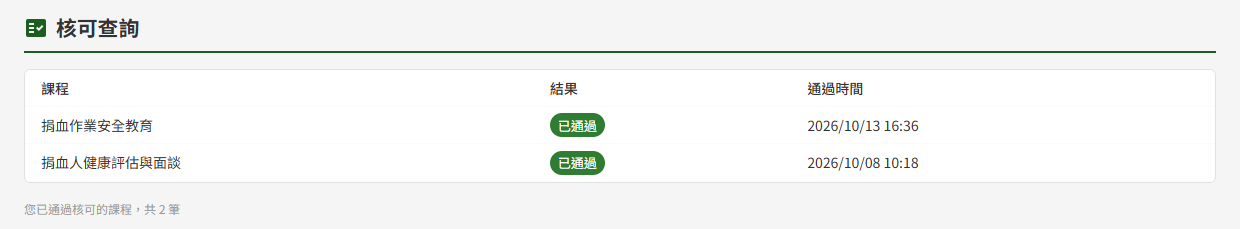
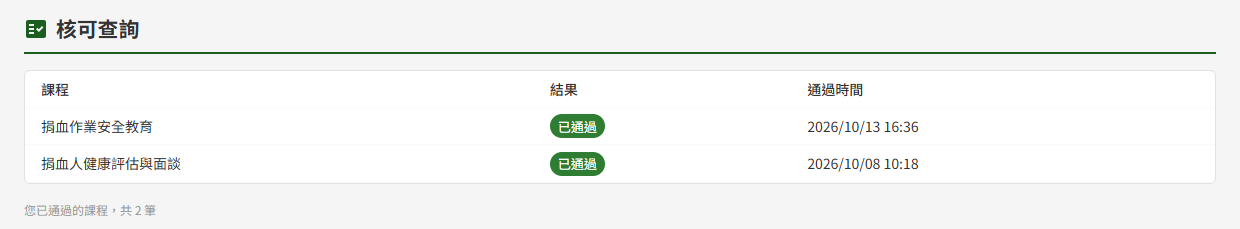
docs(et): ET 手冊依 10/05 後合併的程式改動修正，重拍 et04-01／03、et05-17／23／24
- ET06／ET07：鎖定提示改為點名擋路項目
- ET07：離開作答確認視窗原文、殘留作答的兩則提示、有殘留作答時「開始作答」仍可按；最高分與及格判定改述為百分制
- ET02：平均成績以百分制換算；查無資料或匯出中匯出鈕停用；「重新整理」改為「離開本作業後再進入」
- ET03：加入尚未開放課程的訊息原文
- ET04：課程下拉說明「不選則列出全部課程」
- ET05：已關閉課程受訓對象可自由增刪；引用文件改版／廢止排程通知；問卷檢核限啟用中者；「重新整理」寫法移除
- 測試項目同步並重產 ET 測試報告

et05-01 待另行處理；再開課帶入受訓對象待 #678 合併後再寫。

diff --git a/docs/manuals/_tests/ET-教育訓練文件管理模組.md b/docs/manuals/_tests/ET-教育訓練文件管理模組.md
@@ -67,10 +67,11 @@
 | 2 | 選擇課程丙（已關閉），應顯示唯讀提示；三區塊照常顯示，「移除」「重置重考次數」皆呈灰色，「匯出 CSV」仍可匯出。 |
 | 3 | 選擇課程甲，學員 E 應為「未開始」、進度 0%、平均成績「—」；學員 F 平均成績應顯示「0」而非「—」。 |
 | 4 | 學員 G 只作答過「測驗一」（兩次），其平均成績應等於「測驗一」兩次中的較高分，未作答的「測驗二」不列入計算。 |
-| 5 | 學員於 ET06 完成課程甲的一個教材項目後，回本頁重新整理，該學員的學習進度應隨即增加。 |
+| 5 | 學員於 ET06 完成課程甲的一個教材項目後，離開本作業後再進入，該學員的學習進度應隨即增加。 |
 | 6 | 於 ET05 對課程甲新增一份教材並儲存後回本頁，原已完課學員應顯示「進行中」，學習進度之分母隨之增加。 |
 | 7 | 按「已加入學員」區塊的「匯出 CSV」，應顯示「CSV 已匯出」並下載檔案；檔案應含全班學員（不受畫面分頁限制），最後一欄為核可狀態且文字與畫面相同。 |
 | 8 | 對課程乙按「匯出 CSV」，檔案的核可狀態欄應全部為「—」。 |
+| 8-1 | 選一門尚無學員的課程，「已加入學員」的「匯出 CSV」應為灰色無法按；問卷尚無人填答時，問卷結果的「匯出 CSV」亦應為灰色。按其中一顆匯出時，只有該顆暫時呈灰色，另一顆照常可按。 |
 | 9 | 完成第 7 項後，以管理者至 DP05 操作記錄查詢，應查得教師甲該次匯出的紀錄與筆數。 |
 | 10 | 對學員 I 按「移除」，確認視窗應顯示「確定移除 …？學習歷史完整保留。」；按「確定」後顯示「已移除學員」，學員 I 自三區塊消失，問卷的未填人數同步減少。 |
 | 11 | 承上，以學員 I 登入，「我的課程」應不再顯示課程甲；於「加入新課程」輸入課程甲的邀請碼應被擋下並提示已被移除。 |
@@ -80,7 +81,7 @@
 | 15 | 展開學員 G 的「測驗一」，兩次作答應各列一行，點選第 1 次（非最近一次）應可開啟該次的逐題明細。 |
 | 16 | 於逐題明細中，學員選錯的選項應以紅色標示、漏選的正確答案應註明「（正確答案，未選）」，各題顯示得分與配分。 |
 | 17 | 記下某次作答的逐題明細後，於 ET05 修改該題的題幹或正確答案並儲存，再開啟同一次作答的明細，內容與分數應維持作答當時的樣子。 |
-| 18 | 學員開始作答但尚未交卷時，該次作答應不出現在作答明細的歷次清單中，「已用 X / Y 次」亦不增加；交卷後重新整理即出現。 |
+| 18 | 學員開始作答但尚未交卷時，該次作答應不出現在作答明細的歷次清單中，「已用 X / Y 次」亦不增加；交卷後離開本作業再進入即出現。 |
 | 19 | 學員 H「測驗一」的「重置重考次數」應呈灰色，滑鼠移上應顯示尚有幾次可作答；學員 K（已及格）的該按鈕亦呈灰色。 |
 | 20 | 對學員 G 的「測驗一」按「重置重考次數」並確定，應顯示「已重置重考次數」，已用次數變為 0，原有兩次作答紀錄仍列出且可點開。 |
 | 21 | 承上，以學員 G 登入應可再作答「測驗一」共 2 次；其他測驗的已用次數不受影響。 |
@@ -139,7 +140,7 @@
 | 12 | 以學員乙按「加入新課程」輸入課程庚的邀請碼按「查詢」，應顯示課程名稱、教師與章節數；此時關閉視窗，課程庚不應出現在清單上。 |
 | 13 | 承上再次查詢後按「確認加入」，應顯示「已加入課程」並進入課程庚的 ET06；回到本頁，課程庚應列於清單並計入「未開始」。 |
 | 14 | 於「邀請碼」欄貼上夾帶空白或連字號的邀請碼，欄位應只保留數字且至多 8 碼；未滿 8 碼時「查詢」不可按。 |
-| 15 | 以學員乙輸入課程辛的邀請碼查詢，應提示開放時點；按「確認加入」後應留在本頁，課程辛的卡片列於清單並標「尚未開放」。 |
+| 15 | 以學員乙輸入課程辛的邀請碼查詢，應提示開放時點；按「確認加入」後應顯示「已加入，課程開放後即可開始學習」並留在本頁，課程辛的卡片列於清單並標「尚未開放」。 |
 | 16 | 學員乙再次輸入已加入之課程庚的邀請碼按「查詢」，應直接進入課程庚的 ET06，且「已加入課程」數不增加（未擋下會重複加入、統計多算）。 |
 | 17 | 學員乙再次輸入已加入之課程辛的邀請碼按「查詢」，應顯示「您已加入「課程辛」，課程開放後即可開始學習」並留在本頁，統計不增加。 |
 | 18 | 以學員甲開啟課程庚的邀請連結並登入，應進入本頁並自動開啟「加入新課程」視窗、填好邀請碼，且在按「確認加入」前不應已加入。 |
@@ -224,22 +225,25 @@
 | 12 | 將已發布課程的訖止時間清空後儲存，系統應擋下並提示改用關閉課程（未擋下該課程將永不到期關閉）。 |
 | 13 | 將一門已發布課程的訖止時間改為已過去的時點，學員應即無法再進入學習；待每日排程執行後（或請 IT 手動觸發），課程狀態應自動轉為「已關閉」。 |
 | 14 | 已發布課程的既有受訓對象應鎖定（兩欄停用、無刪除鈕），只能新增新的組別；新增時選用已被管理者停用的單位應擋下。 |
+| 14-1 | 已關閉課程的既有受訓對象應可修改與刪除（兩欄可選、有刪除鈕），儲存後保留修改結果。 |
 | 15 | 已發布課程新增一組受訓對象並儲存，該組相符且尚未加入的學員應被補加入並各收到一封通知信，已在課程中者不重複收信。 |
 | 16 | 「本課程需線下核可」於草稿、已發布、已關閉三種狀態皆應可調整，且調整後 ET02 的完課率不受影響。 |
 | 17 | 於草稿課程按「刪除草稿」並「確認刪除」，應顯示「草稿已刪除」並回到課程列表，該課程不再出現。 |
 | 18 | 按「新增章節」填名稱後按「儲存並繼續新增」，視窗應保留並可接著填下一個章節。 |
 | 19 | 新增課程尚未儲存時新增兩個章節後直接離開，課程與章節皆不應保留；改為按「儲存草稿」則兩個章節應一併存入。 |
-| 20 | 於章節列上修改章節名稱後將游標移出欄位，名稱應自動儲存，重新整理後仍為新名稱。 |
-| 21 | 拖曳章節左側手把調整順序後重新整理，調整後的順序應保留。 |
+| 20 | 於章節列上修改章節名稱後將游標移出欄位，名稱應自動儲存，離開本頁後再進入仍為新名稱。 |
+| 21 | 拖曳章節左側手把調整順序後離開本頁再進入，調整後的順序應保留。 |
 | 22 | 刪除一個已有學員學習紀錄的章節並確認，該章節的學習紀錄與測驗成績應一併移除、不再計入完課率，後續章節順序自動往前遞補。 |
-| 23 | 於新增課程畫面（課程尚未儲存）按「新增項目 → 教材」，填名稱按「建立」，應顯示「已自動儲存草稿」、轉入該課程編輯頁並開啟教材視窗；重新整理後該課程仍在。 |
+| 23 | 於新增課程畫面（課程尚未儲存）按「新增項目 → 教材」，填名稱按「建立」，應顯示「已自動儲存草稿」、轉入該課程編輯頁並開啟教材視窗；離開本頁後，該課程仍列於「我建立的」。 |
 | 24 | 於章節內按「新增項目 → 教材」，於名稱視窗填名稱按「建立」，教材視窗的「項目標題」應已帶入該名稱；填說明文字後按「儲存」，該章節下應出現此教材。 |
 | 25 | 新建立的教材在第一次按「儲存」前就按「取消」，該教材不應留在章節中。 |
 | 26 | 於教材選檔上傳一支影片後直接按「取消」關閉視窗，重新開啟該教材，影片應仍在（影片為選檔即上傳）。 |
 | 27 | 教材上傳區應顯示支援的影片格式與單檔大小上限；對已有影片的教材再上傳一支同檔名的影片，應擋下並提示先移除原有影片或改用其他檔名。 |
 | 28 | 於教材引用一份「訓練教材」分類的已發布文件並儲存，學員於該章節應可開啟此文件。 |
 | 29 | 將教材已引用的文件於文件管理端發布新版本，學員下次開啟該章節應取得新版內容，教師端不需回頭更新引用。 |
+| 29-1 | 承上，每日排程執行後（或請 IT 手動觸發），教師甲應收到該文件已更新版本的通知信，信中列出受影響的課程；剛加入引用、文件尚未改版時不應收到信。 |
 | 30 | 將已被引用的文件於文件管理端廢止，回到該教材應顯示「此文件已廢止」，且該課程按「儲存並發布」會被擋下。 |
+| 30-1 | 承上，每日排程執行後，教師甲應收到該文件已廢止、請移除引用的通知信。 |
 | 31 | 移除已廢止文件的引用並儲存後再按「儲存並發布」，該項檢核應通過。 |
 | 32 | 於章節內按「新增項目 → 測驗」並建立，於「測驗設定」填及格分數與重考次數上限後按「儲存」，該章節下應出現此測驗。 |
 | 33 | 「作答時間限制」留空儲存，學員作答該測驗時應不限時；改填入數字後，學員端應為該分鐘數的限時作答。 |
@@ -264,7 +268,7 @@
 | 52 | 某份測驗各題配分總和不等於 100 時按「儲存並發布」，視窗應列出該測驗配分不符，關閉後該測驗以紅框標示。 |
 | 53 | 草稿課程已建立問卷但問卷沒有任何題目時按「儲存並發布」，應一併擋下；將該問卷刪除後應即可發布。 |
 | 54 | 全部檢核通過後按「確認發布」，課程狀態應轉為「已發布」，並顯示依受訓對象帶入的學員人數與一組 8 碼邀請碼，該批學員各收到一封通知信；課程建立者本人不應被加入。 |
-| 55 | 發布後重新整理編輯頁，上方顯示的邀請碼應為同一組，且畫面不提供重新產生。 |
+| 55 | 發布後離開編輯頁再進入，上方顯示的邀請碼應為同一組，且畫面不提供重新產生。 |
 | 56 | 發布一門受訓對象沒有任何相符學員的課程，應顯示課程已發布但無學員符合受訓對象的警告，並提示可改用邀請碼。 |
 | 57 | 已發布課程新增一個章節並儲存，所有已加入的學員應收到通知信。 |
 | 58 | 已發布課程新增一份教材並儲存，已完課學員的完課狀態應回退為「進行中」，其已填寫的課後問卷不需重填。 |
@@ -286,6 +290,7 @@
 | 74 | 再開課的新起始時間填在過去的日期應可送出；訖止時間早於起始時間時應擋下並提示。 |
 | 75 | 再開課完成後畫面上的起訖時間應立即顯示為剛剛填入的值，不需離開頁面再進來。 |
 | 76 | 於關閉期間移除某項必要內容（如刪光教材）後按「確認再開課」，應跳出「再開課」視窗列出缺漏，關閉後缺漏處以紅框標示、畫面仍停在再開課模式；補齊後再按一次即可完成。 |
+| 76-1 | 關閉期間將課後問卷的題目刪光並停用該問卷，按「確認再開課」不應因問卷被擋下。 |
 | 77 | 再開課完成後課程應回到「已發布」，學員的學習進度與成績接續保留、原邀請碼恢復有效。 |
 | 78 | 於兩個裝置同時開啟同一門課程的編輯頁，其中一邊儲存後另一邊再儲存，應擋下並提示內容已被其他裝置變更，且該次編輯不覆蓋先前的儲存。 |
 
@@ -310,7 +315,7 @@
 | 項次 | 測試內容 |
 |---|---|
 | 1 | 學員甲第一次點受測課程甲的卡片，應落在第一章的第一個項目，左側「課程進度」為 0 / 全部項目數。 |
-| 2 | 學員甲於第一個項目尚未完成時點第二個項目，應提示「請先完成本章節之影片學習」，內容區不切換。 |
+| 2 | 學員甲於第一個項目尚未完成時點第二個項目，應提示「請先完成「（第一個項目名稱）」後解鎖」，內容區不切換。 |
 | 3 | 播放第一份教材的影片後直接拖曳進度條至結尾，完成百分比應只反映實際播放過的部分，下一個項目仍鎖定。 |
 | 4 | 將「播放速度」設為 2 倍並從頭播放到結尾，完成百分比應達 100% 並標示「已完成」，左側下一個項目不需重新整理即開放。 |
 | 5 | 將已看過的同一段影片重複播放數次，完成百分比不應增加。 |
@@ -320,7 +325,7 @@
 | 9 | 點引用已廢止文件的教材，應顯示「此文件已廢止」，且文件內容仍可正常閱讀。 |
 | 10 | 點只引用 Word 或 Excel 文件的教材，應出現「下載原檔以本機應用程式開啟」，按下可存檔並以本機程式開啟。 |
 | 11 | 點測驗項目，內容區應顯示題數、作答時間、及格分數與剩餘可作答次數；按「開始作答」應進入 ET07 作答頁。 |
-| 12 | 作答測驗未及格後返回課程，點第二章的項目應提示「請通過本章節之測驗後解鎖」；重新作答及格後，第二章第一個項目應隨即開放。 |
+| 12 | 作答測驗未及格後返回課程，點第二章的項目應提示「請先通過測驗「（測驗名稱）」後解鎖」；重新作答及格後，第二章第一個項目應隨即開放。 |
 | 13 | 已完成第二章項目後，回頭點第一章已完成的項目，應可正常開啟重看，不受解鎖順序限制。 |
 | 14 | 學員甲尚未完課時，左側最下方應不出現問卷入口；完成全部項目後，課程進度應為 100%、「我的課程」狀態為「已完成」，左側最下方出現「填寫課後問卷」。 |
 | 15 | 學員乙按「填寫課後問卷」，問卷頁應說明採具名填答、一人一次、送出後不可修改。 |
@@ -363,11 +368,11 @@
 | 3 | 測驗 B 的重考次數上限為 0，作答前剩餘可作答應為 1 次；交卷 1 次後應變為 0 次且「開始作答」不可按。 |
 | 4 | 測驗 A 作答前剩餘可作答應為 20 次；按「開始作答」後回到測驗項目，剩餘可作答應已減為 19 次。 |
 | 5 | 於作答畫面點左側任一題號應跳至該題；作答後該題號改為已答標示，「已答 N / 5」隨之增加。 |
-| 6 | 作答中點左側選單「我的課程」，應跳出確認視窗；按取消應留在作答畫面，已作答的內容不變。 |
-| 7 | 承上，再點左側選單並於確認視窗按確定，應交卷並前往「我的課程」；回到測驗 A，歷次作答紀錄應出現該次成績，且不再有可接續的作答。 |
+| 6 | 作答中點左側選單「我的課程」，應跳出「離開作答」確認視窗；按「繼續作答」應留在作答畫面，已作答的內容不變。 |
+| 7 | 承上，再點左側選單並於確認視窗按「提交並離開」，應顯示「已提交本次作答」並前往「我的課程」；回到測驗 A，歷次作答紀錄應出現該次成績，且不再有可接續的作答。 |
 | 8 | 作答中切換到另一個瀏覽器分頁，本次作答應立即自動提交，回到原分頁時為結果頁，上方顯示「因離開作答視窗，本次作答已自動提交。」，且計入一次作答次數。 |
 | 9 | 開始作答後作答 2 題並等倒數歸零，系統應自動提交，結果頁顯示「作答時間到，已自動提交」，該 2 題照常計分；歷次作答紀錄中該次標示「逾時」。 |
-| 10 | 開始作答、切換題目暫存 1 題後直接關閉瀏覽器分頁；重新進入測驗 A 按「開始作答」，應先顯示上一次以已暫存的那 1 題提交計分的成績。 |
+| 10 | 開始作答、切換題目暫存 1 題後直接關閉瀏覽器分頁；重新進入測驗 A，測驗項目應提示「您上次的作答尚未提交…」；按「開始作答」，結果頁上方應顯示「您上次的作答未提交，已以暫存的作答自動提交。」，成績為以已暫存的那 1 題計分。 |
 | 11 | 學員甲作答中，教師甲將測驗 A 某題的正確答案改掉並儲存；學員甲依原題目作答並提交，該題應依開始作答當時的正確答案計分。 |
 | 12 | 作答到最後一題選好答案後不切換題目，直接按「提交」，應立即交卷（不另跳確認視窗），且該題作答計入成績。 |
 | 13 | 留 1 題完全不作答就按「提交」，該題於答題明細應顯示「未作答」、得 0 分。 |

diff --git a/docs/manuals/et/ET07-線上測驗.md b/docs/manuals/et/ET07-線上測驗.md
@@ -33,7 +33,7 @@
 |---|---|
 | 作答時間 | 顯示「不限時」者，作答時沒有倒數，只能自行按「提交」交卷 |
 | 剩餘可作答 | 教師設定的重考次數上限 **加 1**（含第一次作答）減去已作答次數。重考次數上限為 0 的測驗只能作答 1 次 |
-| 目前成績 | 作答過後顯示「最近一次成績」與「最高分」。**結業成績以最高分為準**，重考考得較低不會拉低成績 |
+| 目前成績 | 作答過後顯示「最近一次成績」與「最高分」，以百分制呈現（配分總和不是 100 時依比例換算）。**結業成績以最高分為準**，重考考得較低不會拉低成績 |
 | 歷次作答紀錄 | 尚未交過卷時不顯示 |
 
 ### 開始作答
@@ -66,8 +66,8 @@
 | 離開方式 | 結果 |
 |---|---|
 | 切換到其他視窗或分頁、將視窗縮到最小、點瀏覽器網址列或跳出的系統通知 | 立即自動提交，不另確認 |
-| 點左側選單、瀏覽器「上一頁」或頁面上的連結 | 先跳出確認視窗：確定即交卷並前往該頁；取消則留在作答畫面，作答不變 |
-| 重新整理或關閉瀏覽器 | 視為離開。下次按「開始作答」時，系統先以上一次已暫存的作答完成提交並顯示成績，仍有剩餘次數者可再開始新的一次 |
+| 點左側選單、瀏覽器「上一頁」或頁面上的連結 | 先跳出「離開作答」確認視窗：按「提交並離開」即交卷並前往該頁（顯示「已提交本次作答」）；按「繼續作答」則留在作答畫面，作答不變 |
+| 重新整理或關閉瀏覽器 | 視為離開。測驗項目會提示「您上次的作答尚未提交。按「開始作答」將以已暫存的作答提交，並顯示該次成績。」；按「開始作答」後，結果頁上方顯示「您上次的作答未提交，已以暫存的作答自動提交。」，仍有剩餘次數者可再開始新的一次。有尚未提交的作答時，即使次數已用完或課程已關閉，「開始作答」仍可按，按下只結算那一次 |
 
 > 注意：每一次離開都計入一次作答次數。作答期間請留在作答畫面，完成後再按「提交」。
 
@@ -92,7 +92,7 @@
 
 多選題舉例：某題配分 30、正確選項 3 個，選對 2 個又多選了 1 個錯的，得分為（2 − 1）÷ 3 × 30 = 10 分，結果標示「部分對」；選錯的數量不少於選對的數量時，該題 0 分。
 
-總分**達到及格分數即為合格**。每一次作答都獨立計分、獨立保存；該測驗的**結業成績取歷次作答的最高分**，ET02 學員學習表現的平均成績亦以各測驗的最高分計算。
+總分換算成百分制後**達到及格分數即為合格**（配分總和為 100 時即為總分）。每一次作答都獨立計分、獨立保存；該測驗的**結業成績取歷次作答的最高分**（百分制），ET02 學員學習表現的平均成績亦以各測驗的最高分計算。
 
 ### 查看結果
 
@@ -123,7 +123,7 @@
 
 ### 重考次數用完
 
-未及格且剩餘可作答次數為 0 時，測驗項目顯示「重考次數已用完，請聯繫教師重置」，「開始作答」無法按；歷次作答紀錄仍可點閱，供複習錯在哪裡。
+未及格且剩餘可作答次數為 0 時，測驗項目顯示「重考次數已用完，請聯繫教師重置」，「開始作答」無法按（仍有尚未提交的作答時例外，按下只結算那一次）；歷次作答紀錄仍可點閱，供複習錯在哪裡。
 
 此時請聯繫課程教師。教師於 ET02 學員學習表現對該測驗「重置重考次數」後，剩餘可作答次數**恢復為完整的一輪**（重考次數上限加 1），即可再開始作答。重置不會刪除任何先前的作答紀錄與成績，最高分照舊計入。
 
@@ -133,7 +133,7 @@
 
 課程關閉（教師手動關閉，或已過課程訖止時間）當下**仍在作答中、尚未交卷**的作答，於系統每日排程執行時以已暫存的作答自動提交並計分，成績列入歷次作答紀錄。
 
-課程關閉後測驗項目顯示「此課程已關閉，無法再開新作答」，「開始作答」無法按；已交卷的成績與歷次作答明細仍可回看。教師再開課後即恢復作答，先前的作答次數與成績接續保留。
+課程關閉後測驗項目顯示「此課程已關閉，無法再開新作答」，「開始作答」無法按（仍有尚未提交的作答時例外，按下只結算那一次）；已交卷的成績與歷次作答明細仍可回看。教師再開課後即恢復作答，先前的作答次數與成績接續保留。
 
 > 注意：課程關閉期間，教師無法重置重考次數。
 
@@ -146,7 +146,7 @@
 | 「重考次數已用完，請聯繫教師重置」 | 本輪次數已用完且未及格。請課程教師於 ET02 學員學習表現重置重考次數 |
 | 「此課程已關閉，無法再開新作答」 | 課程已關閉或已過課程訖止時間，無法開始新的作答；已交卷的成績仍可回看。需要再作答請洽課程教師再開課 |
 | 「此課程目前關閉中，無法開始新的作答」 | 畫面開啟期間課程被關閉。重新點一次測驗項目查看最新狀態 |
-| 「請通過本章節之測驗後解鎖」 | 於課程學習頁點了鎖定中的項目。先通過本章節的測驗，後續項目才會解鎖 |
+| 「請先通過測驗「（測驗名稱）」後解鎖」 | 於課程學習頁點了鎖定中的項目。先通過提示中的測驗，後續項目才會解鎖 |
 
 ### 有警告（動作完成但需判斷）
 
@@ -156,6 +156,8 @@
 | 「（作答時間到，已自動提交）」 | 限時測驗時間已到，系統以時間到之前的作答交卷並照常計分 |
 | 「此課程已關閉，無法再開新作答」（結果頁） | 本次作答照常計分，但課程已關閉，之後不能再重新作答 |
 | 「未達及格分數，您仍有重考機會」 | 本次未及格，仍有剩餘次數。按「回課程重新作答」回到測驗項目再開始作答 |
+| 「您上次的作答尚未提交。按「開始作答」將以已暫存的作答提交，並顯示該次成績。」 | 上一次作答在交卷前離開（如重新整理或關閉瀏覽器）。按「開始作答」即以已暫存的作答提交計分 |
+| 「您上次的作答未提交，已以暫存的作答自動提交。」（結果頁） | 上一次未提交的作答已以暫存內容交卷並計分，計入一次作答次數 |
 
 ### 送出後的結果訊息
 
@@ -163,6 +165,7 @@
 |---|---|
 | 「已提交並完成閱卷」 | 已交卷，結果頁顯示本次成績與答題明細 |
 | 「已離開作答視窗，本次作答已自動提交」 | 因離開作答視窗而自動交卷，結果頁顯示本次成績 |
+| 「已提交本次作答」 | 由左側選單、上一頁或頁面連結離開，並於確認視窗按「提交並離開」；已交卷並前往所點的頁面 |
 
 ### 其他情況
 

diff --git a/docs/manuals/et/ET02-學員.md b/docs/manuals/et/ET02-學員.md
@@ -16,7 +16,7 @@
 
 學員經由下列方式加入課程後，即出現在本頁：ET05 課程建立與編輯發布時依受訓對象自動帶入、Email 邀請，或學員於「我的課程」輸入邀請碼自行加入。學員端的學習與作答於 ET06 課程學習、ET07 線上測驗進行；線下核可的結果另可於 ET04 核可查詢跨課程查詢。
 
-本頁所有數字皆於**開啟或重新整理當下即時計算**，不是每日結算；學員剛完成的學習或作答，重新整理即可看到。
+本頁所有數字皆於**開啟當下即時計算**，不是每日結算；學員剛完成的學習或作答，離開本作業後再進入即可看到。
 
 > 重要：本頁含學員姓名、個別成績、逐題作答與**具名**問卷填答，個資密度為全系統最高。匯出的 CSV 檔亦含上述內容，請依個資規範保管，勿任意轉寄。
 
@@ -43,7 +43,7 @@
 | 加入日期 | 學員加入本課程的時點。曾被移除、之後重新邀請回來的學員，為重新加入的時點 |
 | 完課狀態 | 「未開始」為尚未完成任何項目；「進行中」為已完成部分項目；「已完成」為課程目前所有項目皆已完成。教材依 ET06 課程學習的完成條件計算，測驗須**及格**才算完成該項目 |
 | 學習進度 | 已完成項目數占課程目前項目總數的百分比。教師於已發布課程新增教材或測驗後，總數隨之增加，已完課學員即回到「進行中」 |
-| 平均成績 | 每份測驗取該學員歷次作答中的**最高分**，再對該學員**已作答過的測驗**取平均；從未作答的測驗不列入計算。完全沒有作答過任何測驗者顯示「—」 |
+| 平均成績 | 每份測驗取該學員歷次作答中的**最高分**（各次分數先依該次的配分總和換算為百分制），再對該學員**已作答過的測驗**取平均；從未作答的測驗不列入計算。完全沒有作答過任何測驗者顯示「—」 |
 | 最後活動 | 該學員最後一次開啟學習項目、交卷或填寫問卷的時間 |
 
 > 重要：平均成績的「—」與「0」意義相反。「—」代表該學員**還沒有作答任何測驗**；「0」代表**作答了但得 0 分**。判斷要催促學習還是要輔導、重置重考次數時，請以此區分。
@@ -60,6 +60,7 @@
 - 欄位依序為學員、加入日期、完課狀態、學習進度、平均成績、最後活動、核可狀態。核可狀態文字與畫面相同；課程未設定線下核可時，該欄一律填「—」
 - 時間一律為台灣時間
 - 課程已關閉時同樣可以匯出
+- 課程尚無學員時「匯出 CSV」呈灰色無法按；匯出進行中，被按的那一顆暫時呈灰色，完成後恢復
 
 > 注意：學員清單與問卷結果的匯出動作都會記入平台的操作記錄（匯出人、時間與筆數），管理者可於 DP05 操作記錄查詢查閱。
 
@@ -153,7 +154,7 @@
 
 問答題的文字答案請切換至「明細」，或匯出 CSV 檢視。
 
-按「匯出 CSV」後顯示「CSV 已匯出」。**不論目前切換在哪一種檢視，匯出內容一律為明細**：每位填答學員一列，含姓名、填答時間與每一題的答案（含問答題全文）。
+按「匯出 CSV」後顯示「CSV 已匯出」。**不論目前切換在哪一種檢視，匯出內容一律為明細**：每位填答學員一列，含姓名、填答時間與每一題的答案（含問答題全文）。尚無人填答時「匯出 CSV」呈灰色無法按。
 
 ### 線下核可
 
@@ -213,14 +214,14 @@
 | 訊息 | 處置 |
 |---|---|
 | 「請填寫撤銷原因」 | 撤銷原因為必填，填寫後再按「確定」 |
-| 「此測驗不符重置條件（次數未用盡、已及格或尚未作答）」 | 開啟畫面後學員的作答狀況已有變化（例如剛好交卷及格）。重新整理後依最新狀態判斷 |
+| 「此測驗不符重置條件（次數未用盡、已及格或尚未作答）」 | 開啟畫面後學員的作答狀況已有變化（例如剛好交卷及格）。離開本作業後再進入，依最新狀態判斷 |
 | 「課程已關閉，無法執行此管理動作」 | 開啟畫面後課程已關閉或已過閱課訖止時間。需要管理時先於 ET05 課程建立與編輯再開課 |
-| 「查無此學員之選課紀錄」 | 該學員已被移除（可能已於其他分頁或裝置操作過）。重新整理清單 |
+| 「查無此學員之選課紀錄」 | 該學員已被移除（可能已於其他分頁或裝置操作過）。離開本作業後再進入，確認清單現況 |
 | 「學員尚未完課，無法核可」 | 開啟畫面後學員的完課狀態已改變（例如課程剛新增了項目）。待學員完課後再核可 |
-| 「無法核可：已有核可紀錄」 | 該學員已有核可結果（可能已於其他分頁或由他人先完成）。重新整理；要改判時先撤銷 |
+| 「無法核可：已有核可紀錄」 | 該學員已有核可結果（可能已於其他分頁或由他人先完成）。離開本作業後再進入確認；要改判時先撤銷 |
 | 「無法核可：已不在此課程」 | 該學員已被移除。需要核可時先重新邀請 |
-| 「核可狀態已被其他人變更，請重新整理後再試」 | 開啟畫面後該學員的核可結果已被變更。重新整理後再操作 |
-| 「此課程未啟用線下核可」 | 開啟畫面後課程的「本課程需線下核可」已被關閉。重新整理；需要核可時於 ET05 課程建立與編輯重新開啟 |
+| 「核可狀態已被其他人變更，請重新整理後再試」 | 開啟畫面後該學員的核可結果已被變更。離開本作業後再進入，確認最新結果後再操作 |
+| 「此課程未啟用線下核可」 | 開啟畫面後課程的「本課程需線下核可」已被關閉。需要核可時於 ET05 課程建立與編輯重新開啟 |
 
 ### 有警告（動作完成但需判斷）
 

diff --git a/docs/manuals/et/ET05-課程建立與編輯.md b/docs/manuals/et/ET05-課程建立與編輯.md
@@ -85,7 +85,7 @@
 
 | 欄位 | 看不出來的地方 |
 |---|---|
-| 受訓對象 | 決定發布時自動邀請誰，課程的建立者本人不會被加入。草稿可自由增刪；**課程一經發布，既有的組別即鎖定**（兩欄停用、無刪除鈕），只能新增新的組別。管理者停用的單位或職位，在既有組別中會標示「（已停用）」 |
+| 受訓對象 | 決定發布時自動邀請誰，課程的建立者本人不會被加入。草稿與已關閉的課程可自由增刪；**已發布的課程，既有的組別鎖定**（兩欄停用、無刪除鈕），只能新增新的組別。管理者停用的單位或職位，在既有組別中會標示「（已停用）」 |
 | 課程起始時間、課程訖止時間 | 點欄位右側的日曆鈕選擇日期與時間，以 24 小時制呈現（如 2026/10/15 14:00），選好後按「確認」 |
 | 課程起始時間 | 起始時間到達前，學員在「我的課程」**看得到**該課程（卡片標「尚未開放」、不可點擊、標示開放時點），但**無法進入學習**——連用網址直接開也會被擋下；教師端不受影響，仍可正常編輯與預覽 |
 | 課程訖止時間 | 到達訖止時間後，學員即無法再學習與作答；課程狀態於系統每日排程執行時自動轉為「已關閉」，不需教師操作 |
@@ -131,7 +131,7 @@
 
 ![選「教材」後先為教材命名，按「建立」才建立並開啟編輯視窗](../_images/et/et05-08.png)
 
-新增課程尚未儲存時按「新增項目」，系統會先檢查課程基本資料，接著在按下「建立」時自動把課程存成草稿（畫面顯示「已自動儲存草稿」）並轉入該課程的編輯頁，再開啟項目視窗。這是正常流程，不是操作失敗；此時課程已經建立，重新整理或離開都不會遺失。
+新增課程尚未儲存時按「新增項目」，系統會先檢查課程基本資料，接著在按下「建立」時自動把課程存成草稿（畫面顯示「已自動儲存草稿」）並轉入該課程的編輯頁，再開啟項目視窗。這是正常流程，不是操作失敗；此時課程已經建立，離開本頁也不會遺失。
 
 剛建立的項目若在第一次儲存前就按「取消」，該項目會被移除，不會留下空白項目。
 
@@ -152,6 +152,8 @@
 > 重要：**影片是選檔後立即上傳**，其餘變更（標題、說明文字、文件引用的增刪）一律按「儲存」才生效。因此上傳影片後才按「取消」，影片仍會留在教材中，需要再開啟教材將它移除。
 
 引用文件時，下拉只列出已發布的文件。引用後**恆帶最新發布版本**——文件管理端改版後，學員下次開啟章節即取得新版，教師不需回頭更新。
+
+引用的文件於文件管理端發布新版本或被廢止時，系統於每日排程寄 Email 通知課程建立者並列出受影響的課程：改版信提醒確認測驗題目是否仍符合新內容（草稿課程不寄），廢止信提醒移除引用。剛加入引用時不寄信。
 
 引用的文件若被廢止，該筆旁邊會顯示「此文件已廢止」標籤，而且**課程會因此無法發布**。處理方式是開啟該教材編輯視窗，於教材文件區移除廢止文件的引用後按「儲存」。若顯示的是「文件已失效」，表示該文件在文件管理端已取不到，同樣需要移除引用。
 
@@ -241,7 +243,7 @@
 | 課程起訖時間 | 起、訖兩個時間都要填，且符合時間先後 |
 | 測驗 | 每份測驗至少 1 題，且各題配分總和等於 100 |
 | 教材文件 | 沒有引用已廢止的文件 |
-| 課後問卷 | 已建立問卷者，至少 1 題 |
+| 課後問卷 | 已建立且啟用中的問卷，至少 1 題 |
 
 **未通過時**
 
@@ -331,7 +333,7 @@
 
 > 重要：關閉是**可逆**的，不是終止課程。關閉期間編輯頁上方會有提示說明課程內容仍可編輯。
 
-![已關閉課程的編輯頁，上方提示課程內容仍可編輯，右上為「再開課」](../_images/et/et05-23.png)
+![已關閉課程的編輯頁，上方提示課程內容仍可編輯，受訓對象可修改與刪除，右上為「再開課」](../_images/et/et05-23.png)
 
 再開課時按標題列右上的「再開課」。基本資料中的「課程起始時間」與「課程訖止時間」會**就地清空**並標為必填，請直接在該處重新指定一組；底部動作列同時換成「取消再開課」與「確認再開課」。
 

diff --git a/docs/manuals/et/ET06-課程學習.md b/docs/manuals/et/ET06-課程學習.md
@@ -61,7 +61,7 @@
 
 > 注意：含影片的教材，完成與否只看影片；同一份教材中的文件與說明文字不另外計算。
 
-項目一完成，左側即標為已完成，下一個項目隨即開放，不需重新整理頁面。點選鎖定中的項目時，畫面不切換，並依擋在前面的是哪一種項目提示「請先完成本章節之影片學習」或「請通過本章節之測驗後解鎖」——依左側順序找到第一個尚未完成的項目，完成它即可繼續。
+項目一完成，左側即標為已完成，下一個項目隨即開放，不需重新整理頁面。點選鎖定中的項目時，畫面不切換，並提示擋在前面的項目名稱，例如「請先完成「○○」後解鎖」或「請先通過測驗「○○」後解鎖」，完成提示中的項目即可繼續。
 
 已完成的項目**隨時可以回頭重看**，不受解鎖順序限制。
 
@@ -169,8 +169,9 @@
 
 | 訊息 | 處置 |
 |---|---|
-| 「請先完成本章節之影片學習」 | 學習順序中尚有未完成的教材。依左側順序找到第一個未完成的教材，將其中每支影片看到 80% 以上；只有文件或說明文字的教材點開即可 |
-| 「請通過本章節之測驗後解鎖」 | 學習順序中有測驗尚未及格。點該測驗重新作答；重考次數已用完者請洽課程教師於 ET02 重置 |
+| 「請先完成「（教材名稱）」後解鎖」 | 提示中點名的教材尚未完成。將其中每支影片看到 80% 以上；只有文件或說明文字的教材點開即可 |
+| 「請先通過測驗「（測驗名稱）」後解鎖」 | 提示中點名的測驗尚未及格。點該測驗重新作答；重考次數已用完者請洽課程教師於 ET02 重置 |
+| 「請先依序完成前面的學習項目後解鎖」 | 依左側順序完成前面尚未完成的項目 |
 | 「尚有題目未作答，請完成後再送出」 | 問卷有單選題未作答，依紅色標示補答後再送出 |
 | 「課程已關閉，無法填寫問卷」 | 課程關閉期間無法填寫問卷，待教師再開課後再填寫 |
 | 「此課程尚未開放，請於開放時間後再進入」 | 課程起始時間尚未到達，請於「我的課程」卡片標示的開放時點之後再進入 |

diff --git a/docs/manuals/et/ET03-我的課程.md b/docs/manuals/et/ET03-我的課程.md
@@ -89,7 +89,7 @@
 | 情況 | 結果 |
 |---|---|
 | 課程已開放學習 | 顯示「已加入課程」，直接進入 ET06 課程學習 |
-| 課程尚未開放 | 查詢結果下方提示「本課程將於（開放時點）開放學習」，仍可加入。加入後留在本頁，課程卡片標「尚未開放」，起始時間到達後即可點入學習 |
+| 課程尚未開放 | 查詢結果下方提示「本課程將於（開放時點）開放學習」，仍可加入。加入後顯示「已加入，課程開放後即可開始學習」並留在本頁，課程卡片標「尚未開放」，起始時間到達後即可點入學習 |
 
 **已加入的課程**
 
@@ -121,7 +121,7 @@
 | 訊息 | 代表什麼 |
 |---|---|
 | 「已加入課程」 | 加入完成，畫面進入該課程的 ET06 課程學習 |
-| 「已加入，課程開放後將出現於清單」 | 加入完成，但課程起始時間未到。課程卡片已列於本頁並標「尚未開放」，起始時間到達後即可點入學習 |
+| 「已加入，課程開放後即可開始學習」 | 加入完成，但課程起始時間未到。課程卡片已列於本頁並標「尚未開放」，起始時間到達後即可點入學習 |
 | 「您已加入「課程名稱」，課程開放後即可開始學習」 | 本人原本就在該課程中，沿用原有的加入紀錄；課程起始時間到達後即可點入學習 |
 
 ### 其他情況

diff --git a/docs/manuals/et/ET04-核可查詢.md b/docs/manuals/et/ET04-核可查詢.md
@@ -54,7 +54,7 @@
 
 ### 依課程查詢
 
-於「課程」下拉選擇課程，即列出該課程的全部紀錄；不輸入學員時可只選課程。
+於「課程」下拉選擇課程，即列出該課程的全部紀錄；不選則列出全部課程。
 
 下拉列出**已有核可紀錄（含不通過與已撤銷）的課程**，以及**已有學員完成的不需線下核可課程**，依課程名稱排序，不限開設者，已關閉的課程也在其中。尚無任何人完成或被核可的課程不會出現在下拉中。
 
